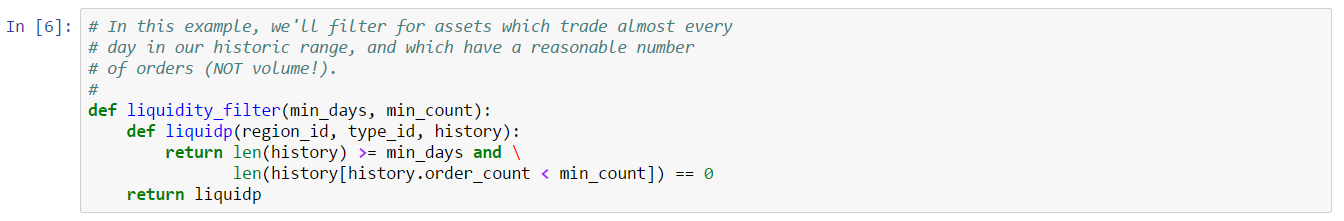
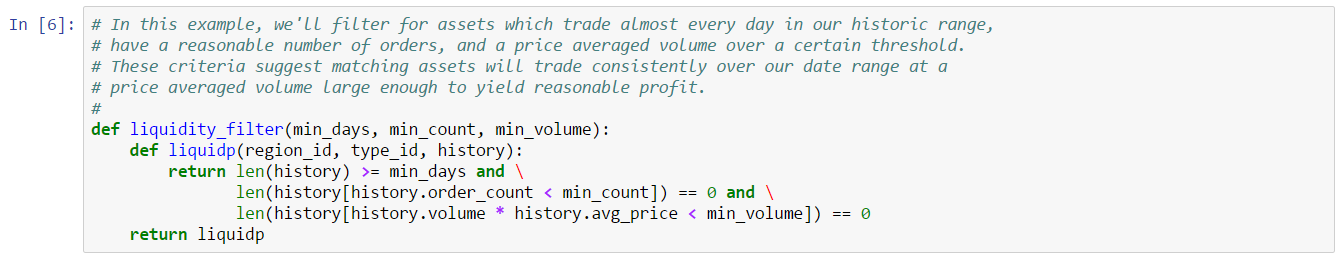
update examples 14 and 15

Changed region(s): [[0.0, 0.0, 1.0, 0.4344], [0.0625, 0.4615, 0.6562, 0.9231], [0.0625, 0.9502, 1.0, 0.9774]]

diff --git a/chapters/03-market-making.md b/chapters/03-market-making.md
@@ -160,11 +160,11 @@ These criteria are straightforward to evaluate using the tools we've already dev
 
 We'll work through the asset criteria we listed above in order.  Unless otherwise specified, we assume we've already downloaded all the necessary market data for this example.  If you insist on running the example with data retrieved online, simply remove the `local_storage` option in the appropriate places.  As with our other examples, you can follow along by downloading the [Jupyter Notebook](code/book/Example_14_Selecting_Market_Making_Targets.ipynb).
 
-As with our other examples, we'll evaluate market making candidates at the busiest station in The Forge.  For historic data, we'll use every Saturday starting from 2017-01-07 through 2017-05-20.  This gives us 20 days worth of sample data.  Our liquidity filter is similar to that used in the previous example: we require an asset to have market data for every day in our sample period; and, we require a minimum number of trades \(i.e. order count\) in each day.  The following figure shows our specific liquidity filter:
+As with our other examples, we'll evaluate market making candidates at the busiest station in The Forge.  For historic data, we'll use every Saturday starting from 2017-01-07 through 2017-05-20.  This gives us 20 days worth of sample data.  Our liquidity filter is similar to that used in the previous example: we require an asset to have market data for every day in our sample period; we require price weighted volume to exceed a minimum threshold; and, we require a minimum number of trades \(i.e. order count\) in each day.  These criteria suggest matching assets will trade consistently over our date range with a price weighted volume large enough to yield reasonable profit.  The following figure shows our specific liquidity filter:
 
 ![Market Making Asset Liquidity Filter](img/ex14_cell1.PNG)
 
-In this example, we'll require assets to have at least 500 trades a day.  This is a somewhat arbitrary choice.  You can increase or decrease this threshold to further exclude or include assets, respectively.  Executing our liquidity filter reduces the set of assets under consideration to 80:
+In this example, we'll require assets to have at least 250 trades a day.  This is a somewhat arbitrary choice.  You can increase or decrease this threshold to further exclude or include assets, respectively.  Executing our liquidity filter reduces the set of assets under consideration to 138:
 
 ![Filtering For Liquidity](img/ex14_cell2.PNG)
 
@@ -179,11 +179,11 @@ where:
 * $t$ - station sales tax
 * $b$ - station broker fee
 
-The order book will provide best bid and ask prices, but we'll need to pick specific values for sales tax and broker fee.  For this example, we'll use 1% and 2.5%, respectively, which are typical values at an NPC station with maximum skills.  For each asset, we'll compute return for each snapshot in each order book over our date range.  It is rarely the case that returns are consistent from snapshot to snapshot, much less from day to day.  Therefore, we'll use the median of the snapshot returns to represent the return for an asset for a given day.  We'll include an asset if median return exceeds our target return for at least half the days in our date range.  We'll set our target return at 10%.  Once again, these are arbitrary choices.  You can tighten the filter by using a lower quantile for representing daily return; by increasing the number of days for which the return target must be met; or, by increasing the return target.  The following code produces a Pandas DataFrame of daily returns for each asset in our date range \(NOTE: this cell may take several minutes to execute due to the amount of data processed\):
+The order book will provide best bid and ask prices, but we'll need to pick specific values for sales tax and broker fee.  For this example, we'll use 1% and 2.5%, respectively, which are typical values at an NPC station with maximum skills.  For each asset, we'll compute return for each snapshot in each order book over our date range.  It is rarely the case that returns are consistent from snapshot to snapshot, much less from day to day.  Therefore, we'll use the median of the snapshot returns to represent the return for an asset for a given day.  We'll include an asset if median return exceeds our target return for at least half the days in our date range.  We'll set our target return at 5%.  Once again, these are arbitrary choices.  You can tighten the filter by using a lower quantile for representing daily return; by increasing the number of days for which the return target must be met; or, by increasing the return target.  The following code produces a Pandas DataFrame of daily returns for each asset in our date range \(NOTE: this cell may take several minutes to execute due to the amount of data processed\):
 
 ![Computing Median Returns](img/ex14_cell3.PNG)
 
-Once we have daily return data, we can apply the filter.  In this example, the filter reduces the set of assets under consideration to 14:
+Once we have daily return data, we can apply the filter.  In this example, the filter reduces the set of assets under consideration to 28:
 
 ![Application of Return Filter](img/ex14_cell4.PNG)
 
@@ -199,11 +199,11 @@ We now apply this collector to our data range in order to produce a Pandas DataF
 
 How are buy and sell volume related for promising market making assets?  In an ideal world, buy and sell volume would each consume half of the daily volume.  This would indicate roughly equal opportunities to buy and sell in the market, which is exactly what is needed for effective market making.  In reality, volumes are never this well matched.  For this example, we'll consider an asset a good market making target if both buy and sell side volume consume at least 20% of the daily volume.  We'll keep the assets which have this property for each day in our date range.  Once again, this is an arbitrary choice.  You can tighten the filter by requiring a larger percentage of daily volume.  Note that the volume balance between sides also gives us a hint as to how much market making volume we could expect to transact on a given day.  In particular, market making volume can't exceed the minimum of buy and sell side volume.
 
-With some minor manipulation, we can use the side volume data to determine which assets regularly exceed 20% of volume on both sides of the book.  Applying this filter reduces the set of assets under consideration to 6:
+With some minor manipulation, we can use the side volume data to determine which assets regularly exceed 20% of volume on both sides of the book.  Applying this filter reduces the set of assets under consideration to 11:
 
 ![Application of Side Volume Filter](img/ex14_cell7.PNG)
 
-Our final filter considers how much competition we're likely to face when making a market for a given asset.  We explored this topic in the previous example where, you may recall, we estimated competition by counting the number of times an existing order changed in a given time period.  Orders which change frequently show competition as market makers strive to capture the best bid or ask.  The choice of sampling period should reflect your play style.  In other words, if you plan to monitor and update your orders every 15 minutes, then you'll want a view of how many other competitors are changing their bids in the same time interval.  In this example, we'll choose a sample interval of 30 minutes, indicating we'll likely update our orders twice an hour.  We're now ready to count orders changes using the same code from the previous example \(we've pasted that code into the next cell\).  The result will be a Pandas DataFrame giving the number of orders which changed in each sampling interval for each type on each day:
+Our final filter considers how much competition we're likely to face when making a market for a given asset.  We explored this topic in the previous example where we estimated competition by counting the number of times an existing order changed in a given time period.  Orders which change frequently show competition as market makers strive to capture the best bid or ask.  The choice of sampling period should be a multiple of how frequently you plan to update orders.  For example, if you plan to update orders every ten minutes, you should choose a sampling period of at least ten minutes, with larger multiples preferred.  Assuming competition is evenly distributed, the sample interval divided by the number of changes indicates how frequently your orders may be displaced.  In order to consistently capture the top of the book, you'll need to maintain enough orders to allow an more frequent updates than the competition.  For this example, we'll choose a sample interval of 30 minutes.  We're now ready to count orders changes using the same code from the previous example \(we've pasted that code into the next cell\).  The result will be a Pandas DataFrame giving the number of orders which changed in each sampling interval for each type on each day:
 
 ![Counting Order Changes](img/ex14_cell8.PNG)
 
@@ -214,11 +214,13 @@ How much competition is acceptable?  Once again, the choice is highly subjective
 3. *Maximum Change Count* - we could compute the maximum order change count across all intervals.
 4. *Quantile Change Count* - we could compute some other quantile \(besides median\) change count per interval.
 
-The choice here is important because our estimate of order change count is a rough measure of the number of orders we'll need to maintain in order to consistently capture the top of the book.  That is, because we can't be sure when our competitors have finished changing their orders, we need to be sure we always have at least one order we can change to capture the top of the book just after a competitor has done the same.  Average or median change count will give us some expectation of what a typical sample period might look like in terms of competition, but we risk undershooting the number of orders we need to maintain if the average or median are unusually low.  Conversely, a measure of maximum count shows how extreme the competition might get.  Using maximum is the conservative choice, but also increases the number of orders we need to maintain.   Finally, we could use a quantile other than median, say the 95% order change count quantile.  This would tell us, for example, the maximum change count for 95% of the sample intervals.  Using a high quantile measure captures the more "typical" worst case competition, as opposed to maximum which may represent an extreme outlier.  Before we decide, let's look at all of these measures for our final six market making targets:
+The choice here is important because our estimate of order change count is a rough measure of the number of orders we'll need to maintain in order to consistently capture the top of the book.  That is, because we can't be sure when our competitors have finished changing their orders, we need to be sure we always have at least one order we can change to capture the top of the book just after a competitor has done the same.  Average or median change count will give us some expectation of what a typical sample period might look like in terms of competition, but we risk undershooting the number of orders we need to maintain if the average or median are unusually low.  Conversely, a measure of maximum count shows how extreme the competition might get.  Using maximum is the conservative choice, but also increases the number of orders we need to maintain.   Finally, we could use a quantile other than median, say the 95% order change count quantile.  This would tell us, for example, the maximum change count for 95% of the sample intervals.  Using a high quantile measure captures the more "typical" worst case competition, as opposed to maximum which may represent an extreme outlier.  Before we decide, let's look at all of these measures for our current list of market making targets:
 
 ![Market Making Competition Measures](img/ex14_cell9.PNG)
 
-Average and median measures show very little competition. whereas maximum shows extreme competition for some asset types.  If we went with the average or median measures, we'd likely conclude that none of these assets are particularly competitive \(and therefore we should trade them all\).  However, the high maximum value may give us pause: it's not clear whether the maximum is an extreme outlier or whether there are occasional runs of extreme competition.  This is where a high quantile measure can help \(we could also simply graph the data and attempt to look for extremes visually\).  The 95% quantile shows the maximum order change count for 95% of the sample intervals.  In this example, our final list of assets are similar by this measure and do not seem to have unreasonably large competition.  For the sake of completing this example, then, we'll arbitrarily choose to filter assets in which the 95% order change count is greater than five.  This doesn't change our final asset list and, therefore, we may choose to make a market in all of these assets.  The 95% quantile measure suggests we may need to maintain as many as five orders on each side to stay competitive.  There are many other types of analysis we could have considered for order change count.  For example, we could have analyzed change counts separately for bid and ask orders.  Likewise, we could have factored in time of day more explicitly to try to analyze where competition is heaviest.  We leave these variants as an exercise for the reader.
+Average and median measures suggest orders will need to be updated at most once every ten minutes, whereas maximum shows more extreme competition with some orders changing almost every minute.  If we went with the average or median measures, we'd likely conclude that none of these assets are particularly competitive \(and therefore we should trade them all\).  However, the high maximum value may give us pause: it's not clear whether the maximum is an extreme outlier or whether there are occasional runs of extreme competition.  This is where a high quantile measure can help \(we could also simply graph the data and attempt to look for extremes visually\).  The 95% quantile shows the maximum order change count for 95% of the sample intervals.  In this example, the 95% measures are roughly 60% of the maximum suggesting the maximums are infrequent outliers.  For the sake of completing this example, we'll choose to filter assets in which the 95% order change count is ten or greater.  For the assets which remain, we may need to update orders at most once every three minutes.  We can achieve this goal by maintaining two orders per asset \(since orders can be changed at most once every five minutes in EVE's markets\).
+
+There are many other forms of analysis we could have considered for order change count.  For example, we could have analyzed change counts separately for bid and ask orders.  Likewise, we could have factored in time of day more explicitly to try to analyze where competition is heaviest.  We leave these variants as an exercise for the reader.
 
 We've filtered the set of all assets down to a hopefully promising list of market making targets.  While we could simply trade these assets and hope for the best, a better approach is to attempt to simulate trading outcomes.  We consider this topic next.
 
@@ -238,7 +240,7 @@ We've implemented a straightforward event-based simulator consisting of the thre
 
 The purpose of the fill simulator is to emulate market activity, normally to simulate fills against our test strategy's orders.  Many fill simulators, as found in the literature, are intended for testing long-term strategies with relatively few trades per day.  As a result, these simulators will typically assume orders are always filled, but at a volume and price that depends on factors like daily trade volume and average prices.  Market making strategies, however, will need to trade multiple times a day and will need to react to the current market as part of their strategy.  Our fill simulator will need to present more realistic market data \(e.g. five minute book snapshots\), and will need to simulate trades against something that looks like an actual order book.  The fill simulator we present here will, therefore, bear a closer resemblance to an order book simulator rather than a traditional fill simulator.
 
-Our fill simulator will build an order book for each asset type by simulating the arrival of orders and trades.  The orders we simulate will include new orders, price changes, and cancellations.  The market data provided to our strategy will consist of the current order book maintained by our fill simulator; and, orders created by our strategy will be inserted into the same order book.  Our fill simulator will also simulate the arrival of trades.  These trades will be used to fill orders on the order book, regardless of whether these orders are simulated, or submitted by our strategy.  The random arrival of orders and trades will be implemented by a set of *generators* which are functions which create realistic market data based on the statistical properties of historic data, namely: arrival rate, order side, order size, and price.  We spend the remainder of this section describing how the simulated order book will operate.  We'll show how we derive generators in [Example 15](#example-15---modeling-orders-and-trades) below.  We'll then use our order and trade model in [Example 16](#example-16---a-simple-strategy-and-back-test).
+Our fill simulator will build an order book for each asset type by simulating the arrival of orders and trades.  The orders we simulate will include new orders, price changes, and cancellations.  The market data provided to our strategy will consist of the current order book maintained by our fill simulator; and, orders created by our strategy will be inserted into the same order book.  Our fill simulator will also simulate the arrival of trades.  These trades will be used to fill orders on the order book, regardless of whether these orders are simulated, or submitted by our strategy.  The random arrival of orders and trades will be implemented by a set of *generators* which are functions which create realistic market data based on the statistical properties of historic data, namely: arrival rate, order side, order size, and price.  We spend the remainder of this section describing how the simulated order book will operate.  We'll show how we derive generators in [Example 15](#example-15---modeling-orders-and-trades) below.  We'll then use our order and trade model in [Example 16](#example-16---testing-market-making-strategies).
 
 A simulated order book for a given asset type sorts bid and ask orders by price with all orders at a given price further sorted first-in first-out according to arrival order.  This implies that incoming trades fill the oldest orders first at the best price.  An order book is modified by the following events:
 
@@ -271,7 +273,7 @@ The degree to which our simulation emulates realistic trading depends on the pro
 
 In this example, we'll demonstrate the construction of models which emulate EVE asset order books.  Over time, an order book is updated according to the arrival of new orders, the change or cancellation of existing orders, and the arrival of "immediate" orders which result in trades.  A model of an order book attempts to generate random occurrences of these events such that the behavior of the simulated order book closely emulates actual market behavior.
 
-The accurate simulation of market behavior is a rich and varied topic which we won't cover in detail here.  Instead, we'll focus on implementing just enough behavior to create a reasonably predicative simulation of market making behavior.  We'll construct our order book modesl based on the statistical properties of historic orders and trades we extract from market data.  In particular, from historic order book snapshots, we can model the order event properties such as arrival rate, order side, and order size.  The models we build from this example will ultimately be used to construct simulations on the next example.  As with our other examples, you can follow along by downloading the [Jupyter Notebook](code/book/Example_15_Modeling_Orders_and_Trades.ipynb).
+The accurate simulation of market behavior is a rich and varied topic which we won't cover in detail here.  Instead, we'll focus on implementing just enough behavior to create a reasonably predicative simulation of market making behavior.  We'll construct our order book model based on the statistical properties of historic orders and trades we extract from market data.  In particular, from historic order book snapshots, we can model the order event properties such as arrival rate, order side, and order size.  The models we build from this example will ultimately be used to construct simulations on the next example.  As with our other examples, you can follow along by downloading the [Jupyter Notebook](code/book/Example_15_Modeling_Orders_and_Trades.ipynb).
 
 In this example, we'll build a model of the order book for Tritanium in the most active station in The Forge.  For simplicity, we'll build our model from a single day of market history.  A more realistic model would be constructed from multiple days of history.  We'll use the latter approach in the next example.
 
@@ -366,9 +368,7 @@ For change orders, we once again omit specific price targets and instead handle 
 1. If the side where the change will occur is empty, then the change order is silently discarded.
 2. Otherwise, an order is selected randomly using an exponential distribution which favors the top of the book.  The selected order is immediately re-priced to the top of the book on the appropriate side.
 
-Our handling of change orders is based on the intuition that, in an active market, most order changes will be for the purpose of capturing the top of the book.  Therefore, most changed orders should become the new best bid or ask.
-
-For cancel orders, price is not relevant.  Instead, as described in the text, we'll randomly select an order to remove where the selection is exponentially distributed favoring the bottom of the appropriate side of the book.  Our intuition here is that in an active market, cancels are more likely to occur on orders well away from the top of book \(i.e. orders very unlikely to fill soon\).
+Our handling of change orders is based on the intuition that, in an active market, most order changes will be for the purpose of capturing the top of the book.  Therefore, most changed orders should become the new best bid or ask.  For cancel orders, price is not relevant.  Instead, as described in the text, we'll randomly select an order to remove where the selection is exponentially distributed favoring the bottom of the appropriate side of the book.  Our intuition here is that in an active market, cancels are more likely to occur on orders well away from the top of book \(i.e. orders very unlikely to fill soon\).  In both cases, we construct inter-arrival samples based on snapshot time, which means we need to skew timestamps as we've done for trade samples.
 
 The next two cells show the creation of our change and cancel order generators.  Note that these generators can share a single generic order generator function:
 
@@ -380,13 +380,15 @@ Our last cell shows an example of invoking each of the order generators:
 
 This completes our order book model for Tritanium.  We'll use the techniques we derived in this example to create random order and trade generators in our simple market making simulator.  We show this process in the next example.
 
-### Example 16 - A Simple Strategy and Back Test
+### Example 16 - Testing Market Making Strategies
 
-  * how can I test my strategy?
-    * modeling order books and fills
-  * Example 15 - modeling order books and trades
-    * simple backtest against model
-  * Example 16 - backtest a sample strategy
+* Brief overview of how to write a strategy
+* Use assets we discovered in example 14
+* Extract order/trade data and pickle for these assets
+* Create and test a simple one asset strategy
+* Run the strategy multiple times with different seeds
+* Run the strategy multiple times with different unit sizes
+* Analyze the matrix of results
 
 ## Introduction to Risk management
 
